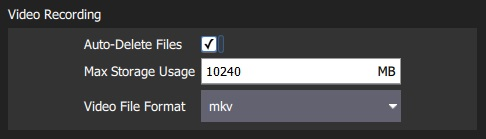
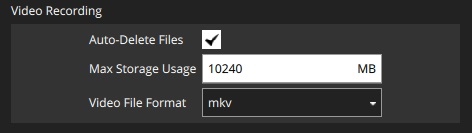
Update Settings > General

Changed region(s): [[0.1483, 0.2105, 0.8305, 0.9023], [0.0, 0.0301, 0.2373, 0.1504]]

diff --git a/en/SettingsView/General.md b/en/SettingsView/General.md
@@ -27,51 +27,71 @@ This section defines a number of miscellaneous settings, related to (non exhaust
 ![Miscellaneous settings](../../assets/settings/general/miscellaneous.jpg)
 
 The settings are:
+- <span id="language"></span>**Language**: System (System Language) | Bulgarian, Chinese, ...
+
+  ![Display languages](../../assets/settings/general/languages.jpg)
 - <span id="colour_scheme"></span>**Color Scheme**: Indoor (Dark) | Outdoor (Light)
-- **Map Provider**: Bing | Google | Statkart | Eniro
-- **Map Type**: Hybrid | Street | Satellite
-- **Stream GCS Position**: Never | Always | When in Follow Me flight mode.
-- **Font Size**: Font size across app (Requires restart)
-- **Mute all audio output**: Turns off all audio output. 
-- <span id="autosave_log"></span>**Save telemetry log after each flight**: Logs automatically saved to the *Application Load/Save Path* ([below](#load_save_path)) after flight. 
-- **Save telemetry log even if vehicle was not armed**: Logs when a vehicle connects to *QGroundControl*. 
-  Stops logging when the last vehicle disconnects.
-- **Use preflight checklist**: Enable pre-flight checklist.
-- **Virtual Joystick**: Enable [virtual joysticks](../SettingsView/VirtualJoystick.md) (PX4 only)
+- **Map Provider**: Google | Mapbox | Bing | Airmap | VWorld | Eniro | Statkart
+- **Map Type**: Road | Hybrid | Satellite
+- **Stream GCS Position**: Never | Always | When in Follow Me Flight Mode.
+- **UI Scaling**: UI scale percentage (affects fonts, icons, button sizes, layout etc.) 
+- **Mute all audio output**: Turns off all audio output.
+- **Check for Internet Connection**: TBD
 - <span id="autoload_missions"></span> **Autoload Missions**: If enabled, automatically upload a plan to the vehicle on connection. 
   - The plan file must be named **AutoLoad#.plan**, where the `#` is replaced with the vehicle id. 
   - The plan file must be located in the [Application Load/Save Path](#load_save_path).
 - **Clear all settings on next start**: Resets all settings to the default (including this one) when *QGroundControl* restarts.
-- **Announce battery lower than**: Specify battery level at which *QGroundControl* will start low battery announcements.
-- **Default Mission Altitude**: The default altitude used for the first waypoint (subsequent new waypoints are seeded with the altitude value of the preceding waypoint).
+- **Announce battery lower than**: Battery level at which *QGroundControl* will start low battery announcements.
 - <span id="load_save_path"></span>**Application Load/Save Path**: Default location for loading/saving application files, including: parameters, telemetry logs, and mission plans.
 
 
-## RTK GPS {#rtk_gps}
 
-This section allows you to specify the RTK GPS "Survey-in" settings, to save and reuse the result of a Survey-In operation, or to directly enter any other known position for the base station.
+## Data Persistence {#data_persistence}
 
-![RTK GPS Settings](../../assets/settings/general/rtk_gps.jpg)
-
-> **Note** The *Survey-In* process is a startup procedure required by RTK GPS systems to get an accurate estimate of the base station position.
-  The process takes measurements over time, leading to increasing position accuracy.
-  Both of the setting conditions must met for the Survey-in process to complete.
-  For more information see [RTK GPS](https://docs.px4.io/en/advanced_features/rtk-gps.html) (PX4 docs) and [GPS- How it works](http://ardupilot.org/copter/docs/common-gps-how-it-works.html#rtk-corrections) (ArduPilot docs).
-
-<span></span>
-> **Tip** In order to save and reuse a base position (because Survey-In is time consuming!) perform Survey-In once, select *Use Specified Base Position* and press **Save Current Base Position** to copy in the values for the last survey.
-  The values will then persist across QGC reboots until they are changed.
+![Data Persistence Settings](../../assets/settings/general/data_persistence.jpg)
 
 The settings are:
-- Perform Survey-In
-  - **Survey-in accuracy (U-blox only):** The minimum position accuracy for the RTK Survey-In process to complete.
-  - **Minimum observation duration:** The minimum time that will be taken for the RTK Survey-in process.
-- Use Specified Base Position
-  - **Base Position Latitude:** Latitude of fixed RTK base station.
-  - **Base Position Longitude:** Longitude of fixed RTK base station.
-  - **Base Position Alt (WGS94):** Altitude of fixed RTK base station.
-  - **Base Position Accuracy:** Accuracy of base station position information.
-  - **Save Current Base Position** (button): Press to copy settings from the last Survey-In operation to the *Use Specified Base Position* fields above.
+- **Disable all data persistence**: Check to prevent any data being saved or cached: logs, map tiles etc. 
+  This setting disables the [telemetry logs section](#telemetry_logs).
+
+
+## Telemetry Logs from Vehicle {#telemetry_logs}
+
+![Telemetry Logs from Vehicle Settings](../../assets/settings/general/telemetry_logs.jpg)
+
+The settings are:
+- <span id="autosave_log"></span>**Save log after each flight**: Telemetry logs (`.tlog`) automatically saved to the *Application Load/Save Path* ([above](#load_save_path)) after flight. 
+- **Save logs even if vehicle was not armed**: Logs when a vehicle connects to *QGroundControl*. 
+  Stops logging when the last vehicle disconnects.
+- **Save CSV log of telemetry data**: Log subset of telemetry data to a CSV file.
+
+
+## Fly View {#fly_view}
+
+![Fly View Settings](../../assets/settings/general/fly_view.jpg)
+
+The settings are:
+- **Use Preflight Checklist**: Enable pre-flight checklist in Fly toolbar.
+- **Enforce Preflight Checklist**: Checklist completion is a pre-condition for arming.
+- **Keep Map Centered on Vehicle**: Forces map to center on the currently selected vehicle.
+- **Show Telemetry Log Replay Status Bar**: Display status bar for [Replaying Flight Data](../FlyView/replay_flight_data.md).
+- **Virtual Joystick**: Enable [virtual joysticks](../SettingsView/VirtualJoystick.md) (PX4 only)
+- **Use Vertical Instrument Panel**: Align instrument panel vertically rather than horizontally (default).
+- **Show additional heading indicators on Compass**: TBD
+- **Lock Compass Nose-Up**: Check to rotate the compass rose (default is to rotate the vehicle inside the compass indicateor).
+- **Guided Minimum Altitude**: Minimum value for guided actions altitude slider.
+- **Guided Maximum Altitude**: Minimum value for guided actions altitude slider.
+- **Go To Location Max Distance**: The maximum distance that a Go To location can be set from the current vehicle location (in guided mode).
+
+
+
+## Plan View {#plan_view}
+
+![Plan View Settings](../../assets/settings/general/plan_view.jpg)
+
+The settings are:
+- **Default Mission Altitude**: The default altitude used for the Mission Start Panel, and hence for the first waypoint.
+
 
 ## AutoConnect to the following devices {#auto_connect}
 
@@ -83,7 +103,7 @@ Settings include:
 - **Pixhawk:** Autoconnect to Pixhawk-series device
 - **SiK Radio:** Autoconnect to SiK (Telemetry) radio
 - **PX4 Flow:** Autoconnect to PX4Flow device
-- **Libre Pilot:** Autoconnect to Libre Pilot autopilot
+- **LibrePilot:** Autoconnect to Libre Pilot autopilot
 - **UDP:** Autoconnect to UDP
 - **RTK GPS:** Autoconnect to RTK GPS device
 - **NMEA GPS Device:** Autoconnect to an external GPS device to get ground station position ([see below](#nmea_gps))
@@ -119,14 +139,61 @@ Use the *NMEA GPS Device* drop-down selector to manually select the GPS device a
   - **NMEA Stream UDP Port**: The UDP port on which QGC will listen for NMEA data (QGC binds the port as a server)
 
 
+
+## RTK GPS {#rtk_gps}
+
+This section allows you to specify the RTK GPS "Survey-in" settings, to save and reuse the result of a Survey-In operation, or to directly enter any other known position for the base station.
+
+![RTK GPS Settings](../../assets/settings/general/rtk_gps.jpg)
+
+> **Note** The *Survey-In* process is a startup procedure required by RTK GPS systems to get an accurate estimate of the base station position.
+  The process takes measurements over time, leading to increasing position accuracy.
+  Both of the setting conditions must met for the Survey-in process to complete.
+  For more information see [RTK GPS](https://docs.px4.io/en/advanced_features/rtk-gps.html) (PX4 docs) and [GPS- How it works](http://ardupilot.org/copter/docs/common-gps-how-it-works.html#rtk-corrections) (ArduPilot docs).
+
+<span></span>
+> **Tip** In order to save and reuse a base position (because Survey-In is time consuming!) perform Survey-In once, select *Use Specified Base Position* and press **Save Current Base Position** to copy in the values for the last survey.
+  The values will then persist across QGC reboots until they are changed.
+
+The settings are:
+- Perform Survey-In
+  - **Survey-in accuracy (U-blox only):** The minimum position accuracy for the RTK Survey-In process to complete.
+  - **Minimum observation duration:** The minimum time that will be taken for the RTK Survey-in process.
+- Use Specified Base Position
+  - **Base Position Latitude:** Latitude of fixed RTK base station.
+  - **Base Position Longitude:** Longitude of fixed RTK base station.
+  - **Base Position Alt (WGS94):** Altitude of fixed RTK base station.
+  - **Base Position Accuracy:** Accuracy of base station position information.
+  - **Save Current Base Position** (button): Press to copy settings from the last Survey-In operation to the *Use Specified Base Position* fields above.
+  
+
+
+
+
+## ADBS Server {#adbs_server}
+
+![ADBS_Server Settings](../../assets/settings/general/adbs_server.jpg)
+
+The settings are:
+- **Connect to ADSB SBS server**: TBD
+- **Host address**: Host address of ADSB server.
+- **Server port**: Port of ADSB server
+
 ## Video {#video}
 
 The *Video* section is used to define the source and connection settings for video that will be displayed in *Fly View*.
 
 ![Video settings](../../assets/settings/general/video_udp.jpg)
 
-> **Note** The values displayed in this setting depend on the video source. 
-  If no video source is specified then no other video or *video recording* settings will be displayed (above we see the settings when UDP source is selected).
+
+  
+The settings are:
+- **Video Source**: Video Stream Disabled | RTSP Video Stream | UDP h.264 Video Stream | UDP h.265 Video Stream | TCP-MPEG2 Video Stream | MPEG-TS (h.264) Video Stream | Integrated Camera
+  > **Note**  If no video source is specified then no other video or *video recording* settings will be displayed (above we see the settings when UDP source is selected).
+- **URL/Port**: Connection type-specific stream address (may be port or URL).
+- **Aspect Ratio**: Aspect ratio for scaling video in video widget (set to 0.0 to ignore scaling)
+- **Disabled When Disarmed**: Disable video feed when vehicle is disarmed.
+
 
 
 ## Video Recording
@@ -139,9 +206,9 @@ Videos are saved to a sub-directory ("Video") of the [Application Load/Save Path
 ![Video - auto deletion](../../assets/settings/general/video_recording_auto_delete.jpg)
 
 The settings are:
-- **Auto-delete Files**: If checked, files are auto deleted when the specified amount of storage is used.
+- **Auto-Delete Files**: If checked, files are auto deleted when the specified amount of storage is used.
 - **Max Storage Usage**: Maximum video file storage before video files are auto deleted.
-- **Video file format**: File format for the saved video recording.
+- **Video File Format**: File format for the saved video recording: mkv, mov, mp4.
 
 
 ## Brand Image
@@ -157,3 +224,6 @@ The settings are:
 - **Indoor Image**: Brand image used in [indoor color scheme](#colour_scheme)
 - **Outdoor Image**: Brand image used in [outdoor color scheme](#colour_scheme)
 - **Reset Default Brand Image**: Reset the brand image back to default.
+
+
+
